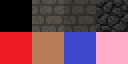
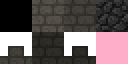
paralax

diff --git a/GameObjects/MazeMap.hpp b/GameObjects/MazeMap.hpp
@@ -12,6 +12,10 @@ namespace GameObjects::MazeMap {
 	//	'\n'
 	//};
 
+	float background1speed = 1.25f;
+	float background2speed = 1.18f;
+	float background3speed = 1.10f;
+
 	struct Sprite {
 		Rectangle spriteTransform;
 	};
@@ -118,12 +122,15 @@ namespace GameObjects::MazeMap {
 		while (buffor[inputIndex] != '\0') {
 			for (; buffor[inputIndex] != '\n'; inputIndex++) {
 				switch (buffor[inputIndex]) {
-					case '0': { board[mapIndex] = 0; break; }
+					case '0': { break; }
 					case '1': { board[mapIndex] = 1; break; }
 					case '2': { board[mapIndex] = 2; break; }
 					case '3': { board[mapIndex] = 3; break; }
+					case '4': { board[mapIndex] = 4; break; }
+					case '5': { board[mapIndex] = 5; break; }
+					case '6': { board[mapIndex] = 6; break; }
 					default: { 
-						board[mapIndex] = 0; 
+						//board[mapIndex] = 0; 
 						DEBUG Log::Error("Map Load Error: %i, %d", inputIndex, buffor[inputIndex]);
 					}
 				}
@@ -134,7 +141,29 @@ namespace GameObjects::MazeMap {
 
 		DEBUG Log::Info("InputIndex %d, MapIndex %d, RowSize, %d", inputIndex, mapIndex, rowSize);
 
-		return Map { { 0, 0 }, textureAtlas, extent, board };
+		return Map { position, textureAtlas, extent, board };
+	}
+
+	block Update(
+		const float& deltaTime,
+		Object::Object& object,
+		const Vector::Vector2<float>& mousePosition,
+		const Uint32& mouseBitMask,
+		const Uint8* const keyboard
+	) {
+		if (keyboard[SDL_SCANCODE_1]) {
+			background1speed += 0.02;
+		} else if (keyboard[SDL_SCANCODE_2]) {
+			background1speed -= 0.02;
+		} else if (keyboard[SDL_SCANCODE_3]) {
+			background2speed += 0.02;
+		} else if (keyboard[SDL_SCANCODE_4]) {
+			background2speed -= 0.02;
+		} else if (keyboard[SDL_SCANCODE_5]) {
+			background3speed += 0.02;
+		} else if (keyboard[SDL_SCANCODE_6]) {
+			background3speed -= 0.02;
+		}
 	}
 
 	block Render(const Renderer& renderer, const Camera::Camera& camera, const Map& map) {
@@ -153,6 +182,32 @@ namespace GameObjects::MazeMap {
 				SDL_RenderCopy (
 					renderer, 
 					map.textureAtlas.texture, 
+					&map.textureAtlas.sprites[map.board[x + (y * map.extent.x)]].spriteTransform,
+					&tileRenderScreenPosition
+				);
+				tileRenderScreenPosition.x += tileRenderScreenPosition.w;
+			}
+			tileRenderScreenPosition.x = startPosition.x;
+			tileRenderScreenPosition.y += tileRenderScreenPosition.h;
+		}
+	}
+
+	block Render(const Renderer& renderer, const Camera::Camera& camera, const Map& map, const float& speed) {
+		//const Vector::Vector2<float> cameraMoveToCenter = Camera::GetCameraScaleMovePosition(camera);
+		//const Vector::Vector2<float> startPosition{ ceil((position.x + camera.position.x) * camera.zoom + cameraMoveToCenter.x), ceil((position.y + camera.position.y) * camera.zoom + cameraMoveToCenter.y) };
+		//printf("map: %f, %f\n", startPosition.x, startPosition.y);
+
+		const Vector::Vector2<float> startPosition { ceil(map.position.x - (camera.position.x * speed)), ceil(map.position.y - camera.position.y) };
+		Rectangle tileRenderScreenPosition; // = { 0, 0, map.textureAtlas.tileSize, map.textureAtlas.tileSize };
+		tileRenderScreenPosition.x = startPosition.x;
+		tileRenderScreenPosition.y = startPosition.y;
+		tileRenderScreenPosition.w = ceil(map.textureAtlas.tileSize);
+		tileRenderScreenPosition.h = ceil(map.textureAtlas.tileSize);
+		for (int y = 0; y < map.extent.y; y++) {
+			for (int x = 0; x < map.extent.x; x++) {
+				SDL_RenderCopy(
+					renderer,
+					map.textureAtlas.texture,
 					&map.textureAtlas.sprites[map.board[x + (y * map.extent.x)]].spriteTransform,
 					&tileRenderScreenPosition
 				);

diff --git a/main.cpp b/main.cpp
@@ -23,7 +23,7 @@ int SDL_main(int argc, char** argv) {
 	// DEBUG Log::Info("Running in Debug Mode...");
 
 	// Window itself can have it's parameters changed.
-	const array<character, 25> windowTitle { "2DGry-242539-Polecenie-7" };
+	const array<character, 25> windowTitle { "2DGry-242539-Polecenie-9" };
 	const Vector::Vector2<uint32> sceneViewport { 1280 , 720 };
 	Window::WindowStruct windowStruct { sceneViewport, windowTitle.size(), windowTitle.data(), { 23, 23, 23, 255 } };
 
@@ -41,9 +41,14 @@ int SDL_main(int argc, char** argv) {
 		const int tileSize = 32;
 		GameObjects::MazeMap::TextureAtlas textureAtlas(GameObjects::MazeMap::CreateTextureAtlas(mainRenderer, 8, tileSize, "assets/tilemap.png"));
 		GameObjects::MazeMap::Map sidescrollerMap(GameObjects::MazeMap::CreateMapFromFile({ 0.0f, 0.0f }, textureAtlas, "assets/maps/sidescroller.map", { 94, 12 }));
+		GameObjects::MazeMap::Map background1(GameObjects::MazeMap::CreateMapFromFile({ -(float)sceneViewport.x, 0.0f }, textureAtlas, "assets/maps/background1.map", { 94 * 2, 12 }));
+		GameObjects::MazeMap::Map background2(GameObjects::MazeMap::CreateMapFromFile({ -(float)sceneViewport.x, 0.0f }, textureAtlas, "assets/maps/background2.map", { 94 * 2, 23 }));
+		GameObjects::MazeMap::Map background3(GameObjects::MazeMap::CreateMapFromFile({ -(float)sceneViewport.x, 0.0f }, textureAtlas, "assets/maps/background3.map", { 94 * 2, 12 }));
 		//GameObjects::MazeMap::Map map1(GameObjects::MazeMap::CreateMapFromFile({ 0.0f, 0.0f }, textureAtlas, "assets/maps/1.map", { 78, 45 } ));
 		//GameObjects::MazeMap::Map map2(GameObjects::MazeMap::CreateMapFromFile({ 0.0f, 0.0f }, textureAtlas, "assets/maps/2.map", { 60, 36 } ));
 		//GameObjects::MazeMap::Map map3(GameObjects::MazeMap::CreateMapFromFile({ 0.0f, 0.0f }, textureAtlas, "assets/maps/3.map", { 86, 39 } ));
+
+		array<GameObjects::MazeMap::Map, 4> maps { sidescrollerMap, background1, background2, background3 };
 
 		// Collisions
 		auto collisions = CreateCollisionsSidescrollerMap(tileSize);
@@ -117,7 +122,8 @@ int SDL_main(int argc, char** argv) {
 			player2s.size(),
 			player2s.data(),
 			{ 0, 0, (int)sceneViewport.x * 3, (int)sceneViewport.y * 3 }, // outside_collider
-			sidescrollerMap,
+			maps.size(),
+			maps.data(),
 			collisions.size(),
 			collisions.data()
 		};
@@ -128,8 +134,9 @@ int SDL_main(int argc, char** argv) {
 		Game::Destroy(mainWindow, mainRenderer);
 
 		
-		GameObjects::MazeMap::DestroyMap(scene1.map);
-		GameObjects::MazeMap::DestroyTextureAtlas(scene1.map.textureAtlas);
+		GameObjects::MazeMap::DestroyMap(sidescrollerMap);
+		GameObjects::MazeMap::DestroyMap(background1);
+		GameObjects::MazeMap::DestroyTextureAtlas(textureAtlas);
 	}
 
 	return 0;

diff --git a/Game.hpp b/Game.hpp
@@ -95,6 +95,7 @@ namespace Game {
 			keyboard = SDL_GetKeyboardState(nullptr);
 
 			GameObjects::Player1::Update::JumpInputProcess(deltaTime, scene.circleObjects[0], {0, 0}, mouseBitMask, keyboard);
+			GameObjects::MazeMap::Update(deltaTime, scene.circleObjects[0], { 0, 0 }, mouseBitMask, keyboard);
 
 			//const Vector2<float> cameraMoveToCenter = Camera::GetCameraScaleMovePosition(camera);
 			//const Vector::Vector2<float> mousePositionToWorld{ ((mousePosition.x - cameraMoveToCenter.x) / camera.zoom) - camera.position.x, ((mousePosition.y - cameraMoveToCenter.y) / camera.zoom) - camera.position.y };
@@ -185,7 +186,26 @@ namespace Game {
 		) {
 			Draw::Background(renderer, *scene.backgroundColor);
 
-			GameObjects::MazeMap::Render(renderer, scene.mainCamera, scene.map);
+			//GameObjects::MazeMap::Render(renderer, scene.mainCamera, scene.maps[3], 1.25f);
+			
+			//DEBUG Log::Info("mapx: %d, mapy: %d", scene.maps[2].extent.x * 32, scene.maps[2].extent.y * 32);
+			////DEBUG Log::Info("camvx: %d, camvy: %d", scene.mainCamera.viewport.x, scene.mainCamera.viewport.y);
+			//DEBUG Log::Info("campx: %f, campy: %f", scene.mainCamera.position.x, scene.mainCamera.position.y);
+			//
+			//if (scene.mainCamera.position.x < scene.maps[2].position.x) {
+			//	// We're to the left of it.
+			//	DEBUG Log::Info("Left Side");
+			//}
+			//
+			//if (scene.mainCamera.position.x + scene.mainCamera.viewport.x > scene.maps[2].extent.x * 32) {
+			//	// We're to the right of it.
+			//	DEBUG Log::Info("Right Side");
+			//}
+
+			GameObjects::MazeMap::Render(renderer, scene.mainCamera, scene.maps[1], GameObjects::MazeMap::background1speed);
+			GameObjects::MazeMap::Render(renderer, scene.mainCamera, scene.maps[3], GameObjects::MazeMap::background2speed);
+			GameObjects::MazeMap::Render(renderer, scene.mainCamera, scene.maps[2], GameObjects::MazeMap::background3speed);
+			GameObjects::MazeMap::Render(renderer, scene.mainCamera, scene.maps[0]);
 			
 			// Gizmos !!!!
 			const Vector::Vector2<float> finishPosiiton { 96 , 96 };

diff --git a/SceneGraph.hpp b/SceneGraph.hpp
@@ -25,7 +25,8 @@ namespace SceneGraph {
 		size squareObjectsCount;
 		Object::Object* squareObjects;
 		Rectangle sceneBoundry;
-		GameObjects::MazeMap::Map map;
+		size mapsCount;
+		GameObjects::MazeMap::Map* maps;
 		size staticCollisionsCount;
 		Rectangle* staticCollisions;
 		size triggersCount;
@@ -45,7 +46,7 @@ namespace SceneGraph {
 
 		for (size i = 0; i < currentScene->circleObjectsCount; i++) {
 			currentScene->circleObjects->transform.position = Spawn::GetRandomValidPosition(
-				currentScene->map, currentScene->staticCollisionsCount, currentScene->staticCollisions
+				currentScene->maps[0], currentScene->staticCollisionsCount, currentScene->staticCollisions
 			);
 		}
 

diff --git a/Framework.hpp b/Framework.hpp
@@ -24,12 +24,14 @@
 using std::array;
 using std::vector;
 using size = size_t;
+using uint8 = uint8_t;
+using uint16 = uint16_t;
 using uint32 = uint32_t;
 using uint64 = uint64_t;
+using int8 = int8_t;
+using int16 = int16_t;
 using int32 = int32_t;
 using int64 = int64_t;
-using uint8 = uint8_t;
-using int8 = int8_t;
 using sint32 = int32_t;
 using any = void*;
 
